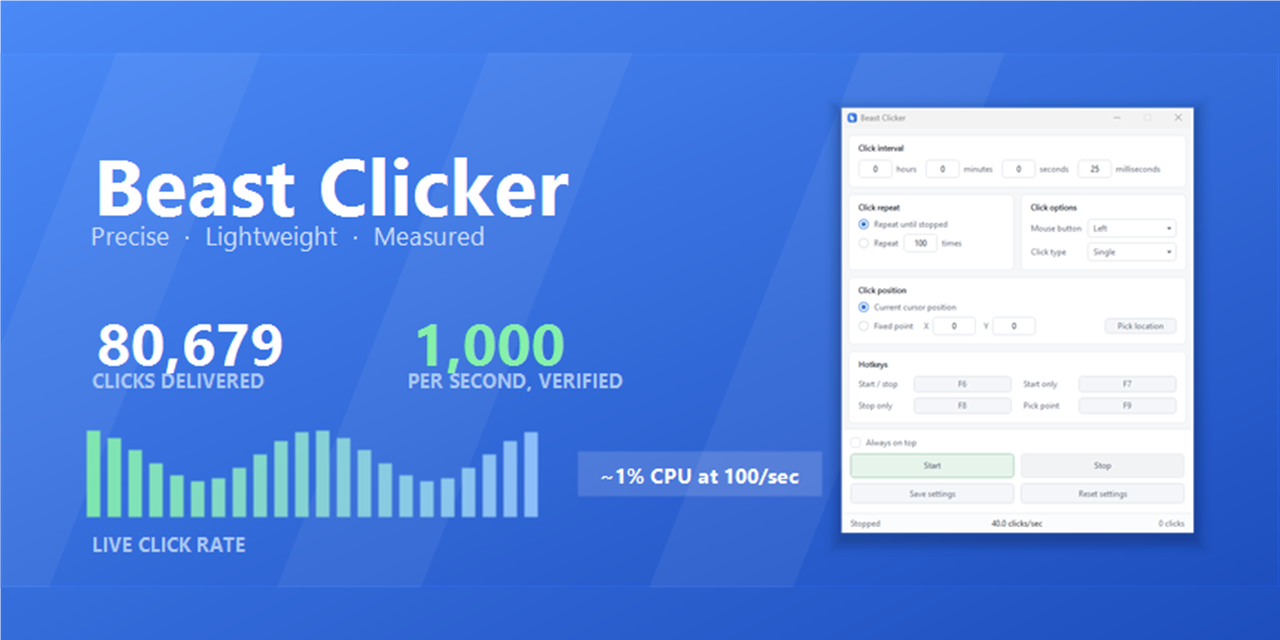
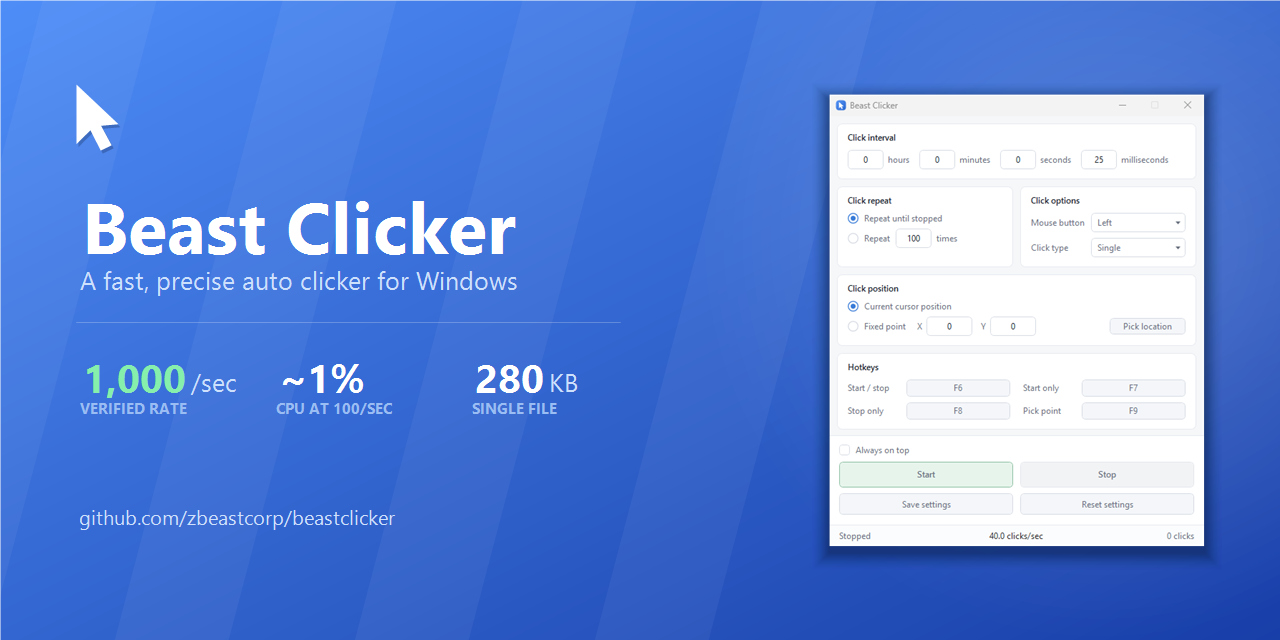
Add a purpose-built social preview card
The previous card was a banner frame letterboxed onto 1280x640, which left
empty gradient bands. This is laid out for the size link previews are actually
viewed at: large type, three measured figures, and the app window.

The cursor mark is drawn in white rather than reusing the app icon, whose blue
plate disappeared against the blue background.

diff --git a/README.md b/README.md
@@ -176,7 +176,8 @@ dotnet publish src/BeastClicker -c Release -r win-x64 --self-contained true \
   -p:IncludeNativeLibrariesForSelfExtract=true -o dist-standalone
 ```
 
-Scripts under `tools/` regenerate the icon, the README artwork and the MSIX.
+Scripts under `tools/` regenerate the icon, the README artwork, the social card and
+the MSIX.
 
 ## Before you use it
 
